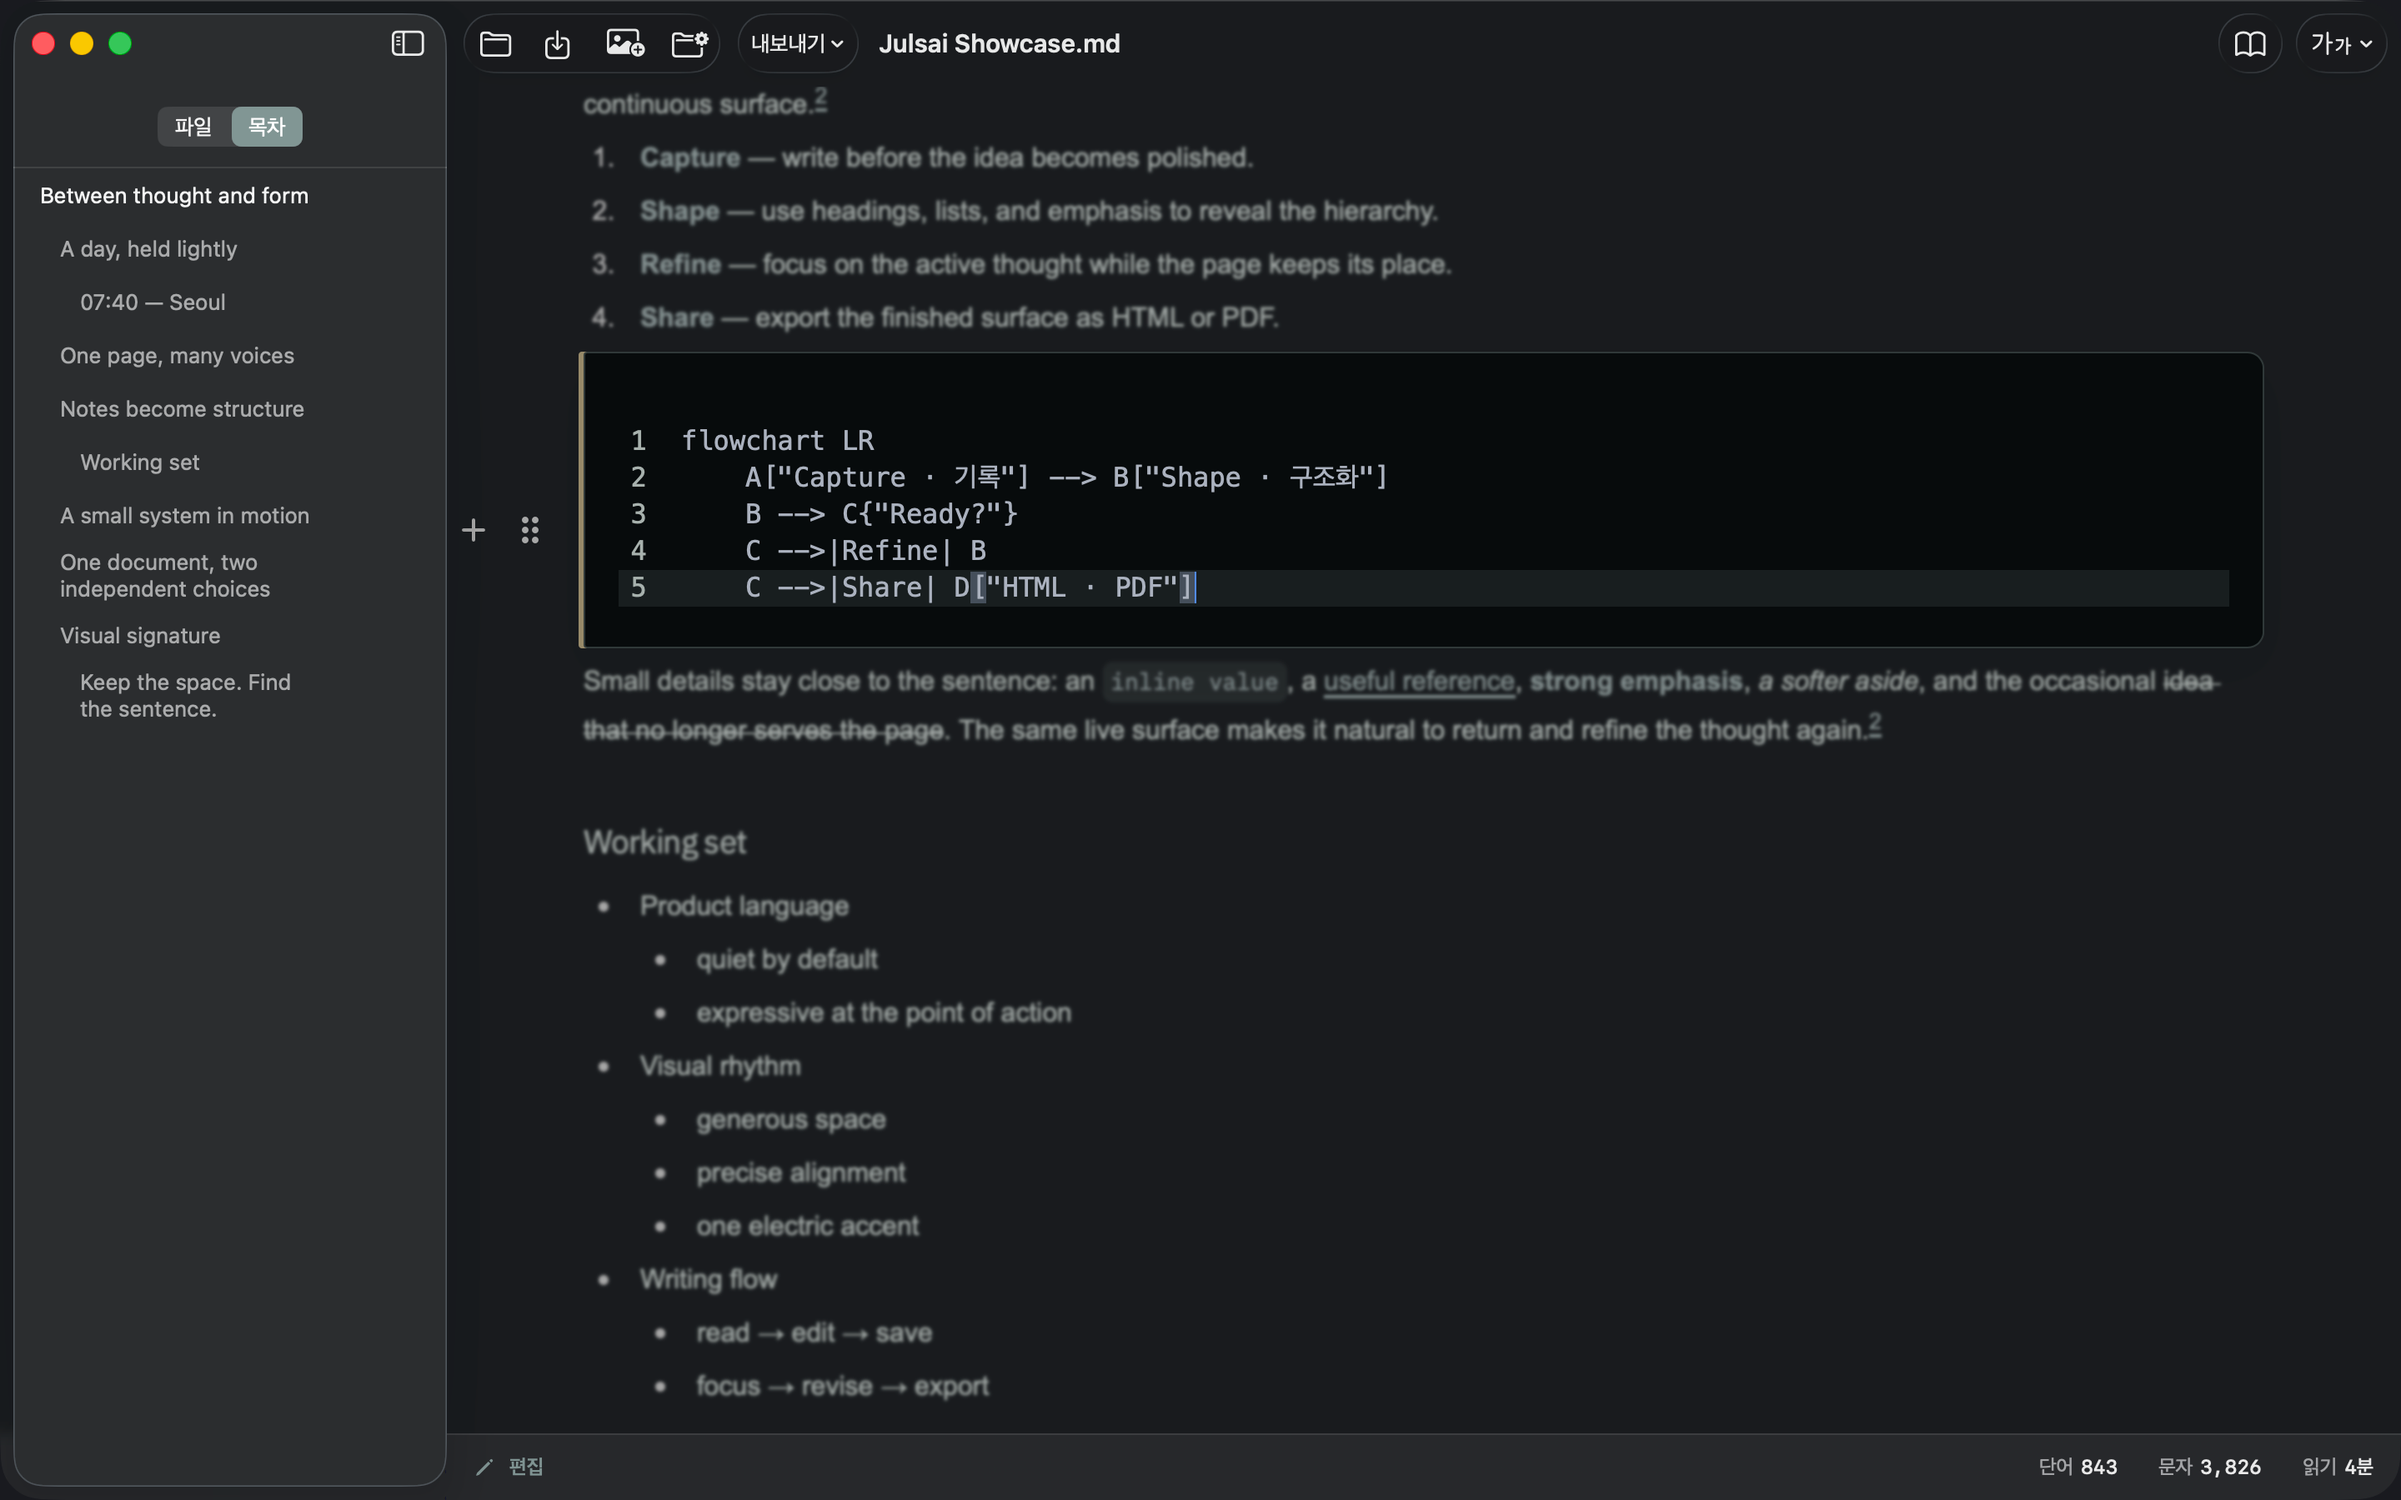
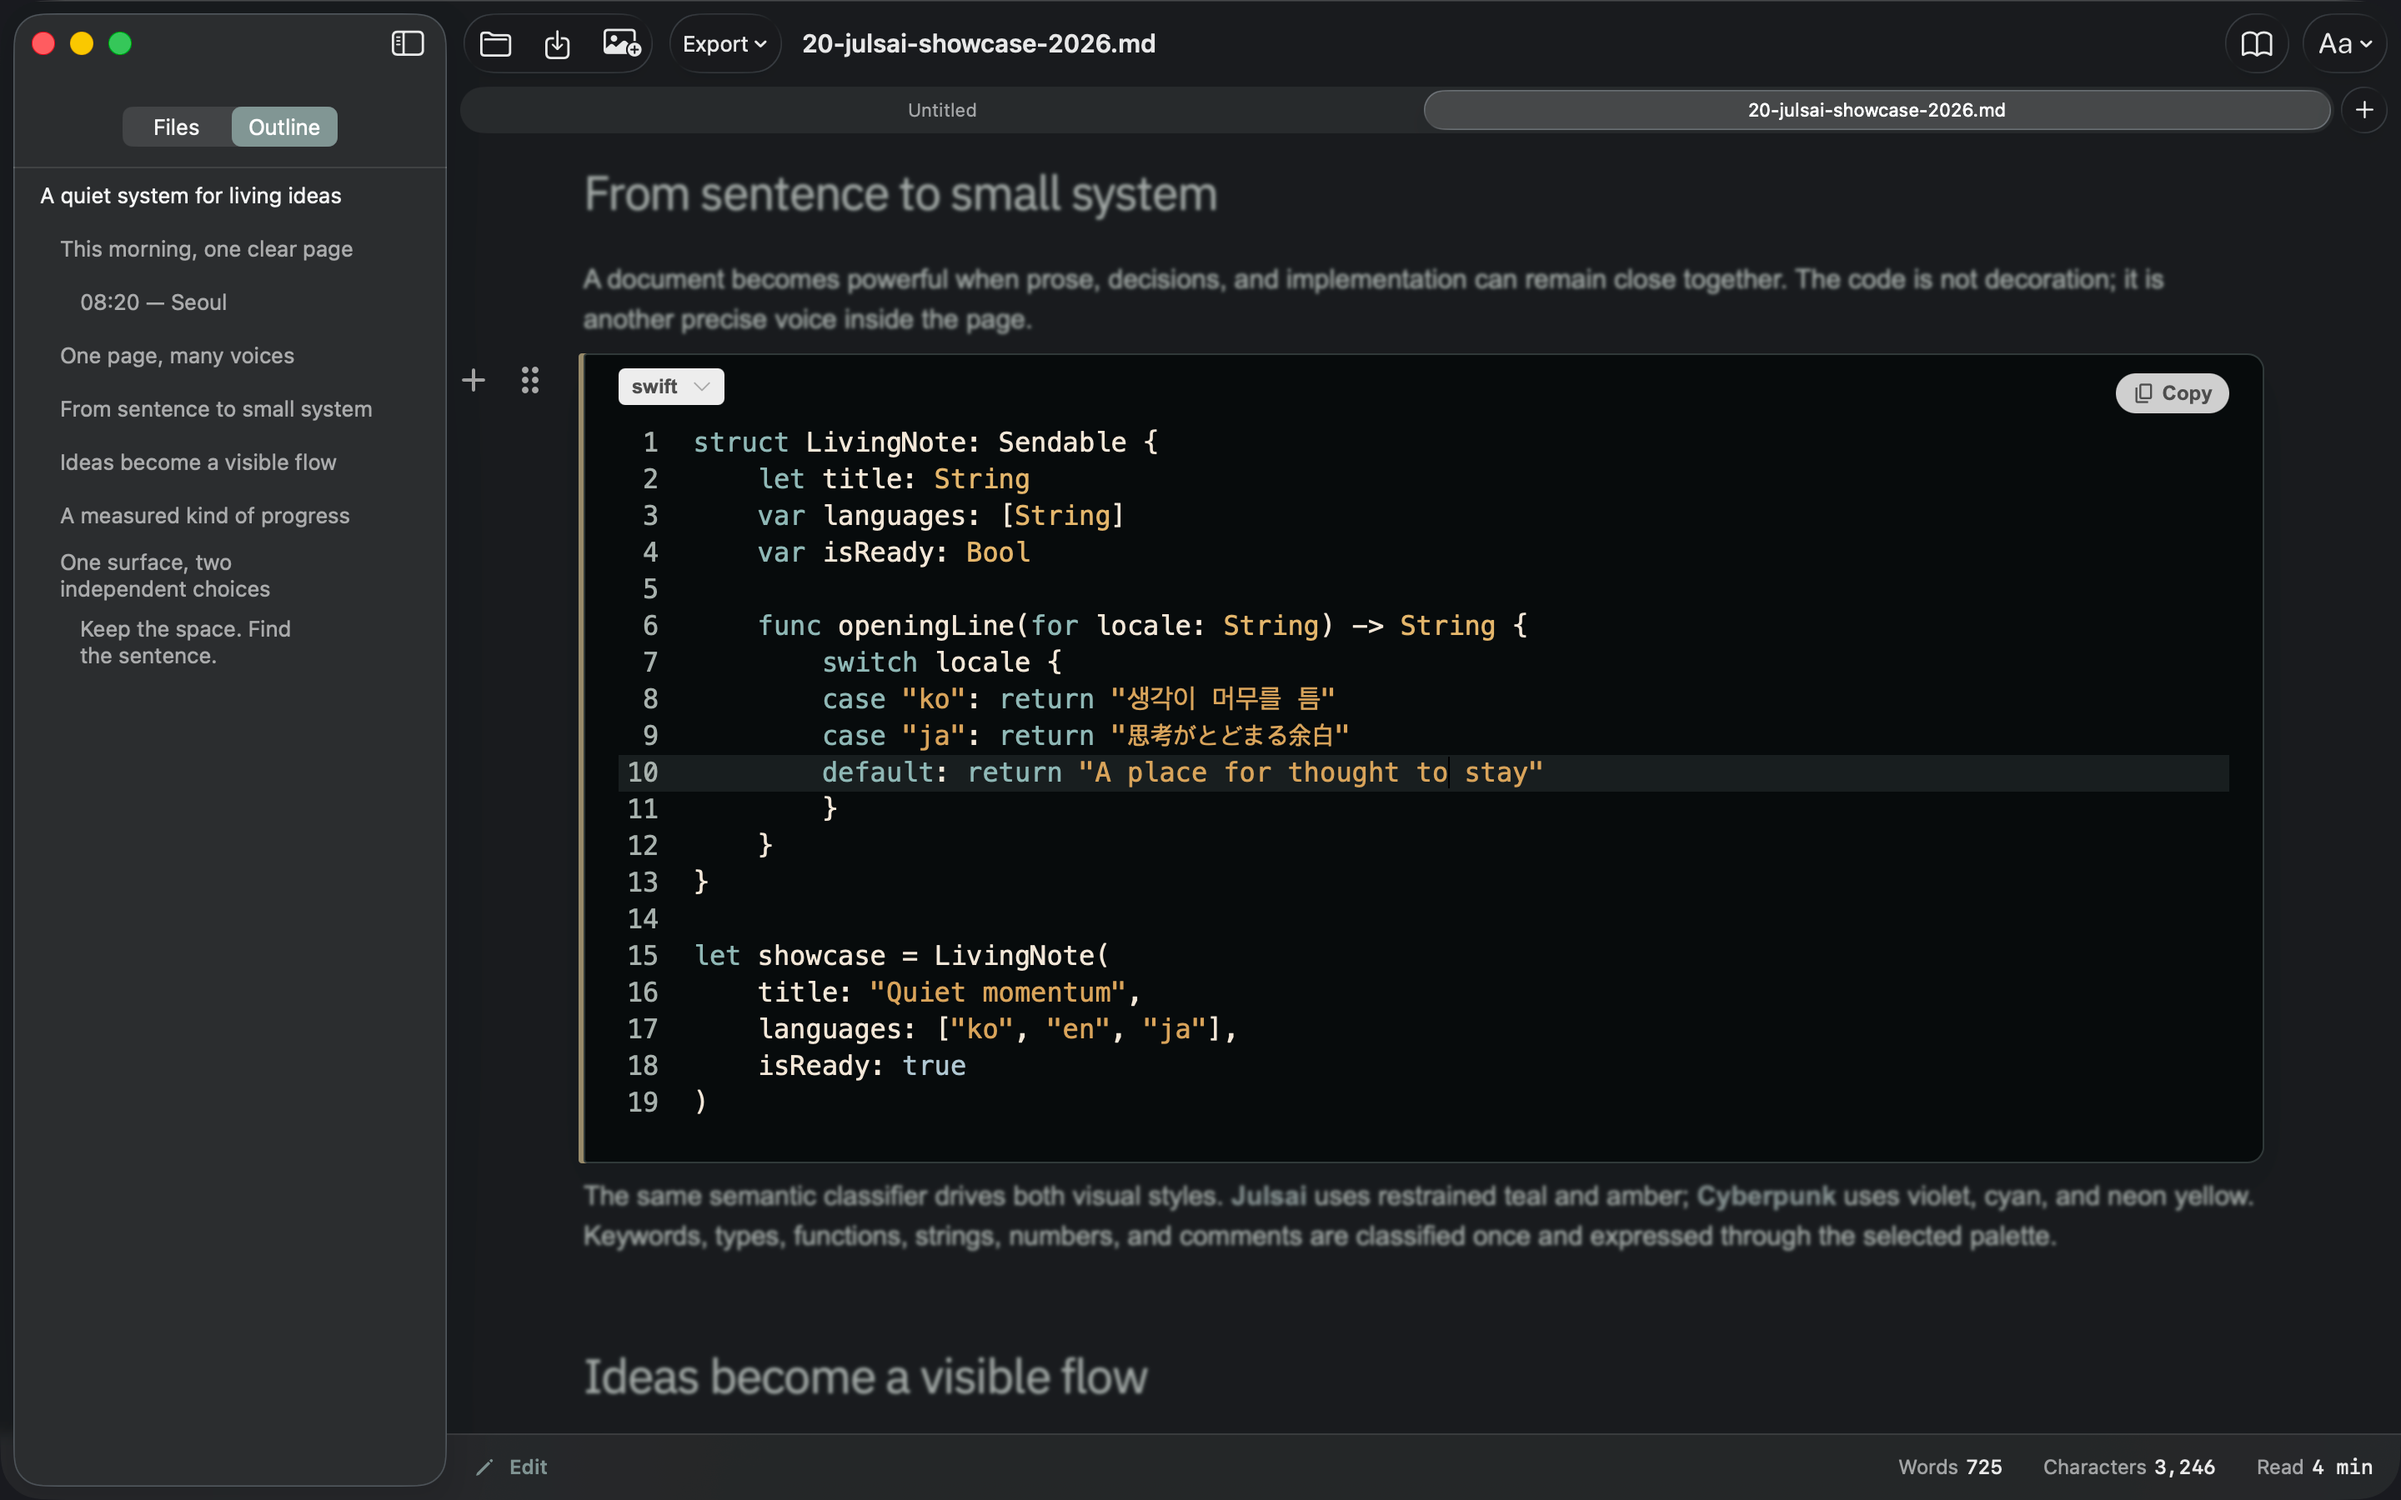
Update Julsai website screenshots

diff --git a/index.html b/index.html
@@ -80,7 +80,7 @@
         </div>
         <div class="focus-visual">
           <p class="screen-label">FOCUS + TYPEWRITER / ACTIVE</p>
-          <figure class="screen-card screen-card-focus"><img src="assets/screenshots/03-focus-typewriter.png" alt="Julsai Focus and Typewriter modes active, emphasizing the current Mermaid code block and writing line." width="2880" height="1800" loading="lazy"></figure>
+          <figure class="screen-card screen-card-focus"><img src="assets/screenshots/03-focus-typewriter.png" alt="Julsai Focus and Typewriter modes active on a Swift code block with semantic syntax highlighting." width="2880" height="1800" loading="lazy"></figure>
           <p class="visual-detail">The page stays present.<br>The working line comes forward.</p>
         </div>
       </section>
@@ -99,7 +99,7 @@
           </article>
           <article class="rich-card rich-card-offset">
             <div class="card-meta"><span>RESPONSIVE TABLES</span><span>02</span></div>
-            <figure class="screen-card"><img src="assets/screenshots/05-responsive-table.png" alt="Julsai showing a wide Markdown table that remains readable with horizontal scrolling." width="2880" height="1800" loading="lazy"></figure>
+            <figure class="screen-card"><img src="assets/screenshots/05-responsive-table.png" alt="Julsai showing a readable multilingual Markdown table alongside a checklist and outline." width="2880" height="1800" loading="lazy"></figure>
             <h3>Wide data stays readable,<br>not squeezed.</h3>
           </article>
         </div>

diff --git a/assets/site.css b/assets/site.css
@@ -1,18 +1,45 @@
 :root {
-  color-scheme: light;
-  --paper: #f3e7d8;
+  color-scheme: light dark;
+  --canvas: #f3e7d8;
+  --structure: #0b3e4c;
+  --decorative: #aa1e14;
+  --highlight: #d0750a;
+  --paper: var(--canvas);
   --paper-bright: #fffaf0;
   --ink: #15191a;
   --ink-soft: #273033;
   --muted: #626662;
   --line: rgba(21, 25, 26, .17);
-  --blue: #0b4b5c;
-  --red: #b32b1f;
-  --yellow: #d98606;
+  --blue: var(--structure);
+  --red: var(--decorative);
+  --yellow: var(--highlight);
   --white: #fffaf0;
   --shadow: 0 28px 70px rgba(18, 22, 22, .19);
   --content-width: min(100% - 48px, 1380px);
   font-family: -apple-system, BlinkMacSystemFont, "Apple SD Gothic Neo", "Noto Sans KR", sans-serif;
+}
+
+@media (prefers-color-scheme: dark) {
+  :root {
+    color-scheme: dark;
+    --canvas: #191b1e;
+    --structure: #7f9392;
+    --decorative: #c76e62;
+    --highlight: #d0750a;
+    --paper-bright: #111718;
+    --ink: #f3e7d8;
+    --ink-soft: #c5ccc8;
+    --muted: #a7b1ad;
+    --line: rgba(243, 231, 216, .18);
+    --white: #f3e7d8;
+    --shadow: 0 28px 70px rgba(5, 8, 9, .42);
+  }
+
+  .screen-card,
+  .theme-dark { background: #070b0c; }
+  .rich-card { background: #273033; }
+  .rich-card-offset { background: color-mix(in srgb, var(--structure) 28%, var(--canvas)); }
+  .visual-detail { color: var(--canvas); }
 }
 
 * { box-sizing: border-box; }
